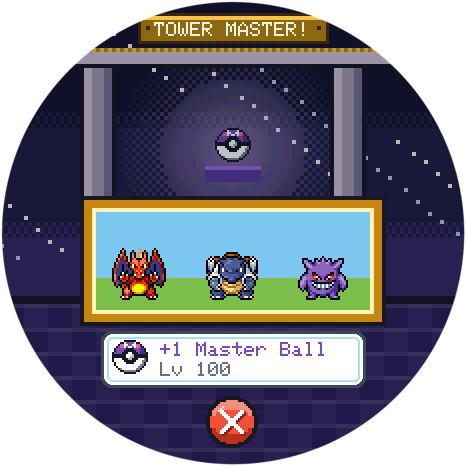
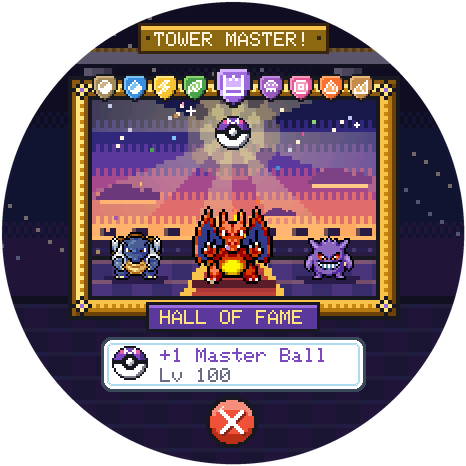
Docs: the Tower's screenshots show the new Hall of Fame painting
Fedor: "Looks like the tower sections didnt get the new hall of fame photo screenshots.
Lets fix that." Shot again from the game (the same team: Charizard with Blastoise and
Gengar), with its confetti, twinkles and the glint on the frame:
- tower-master.png: the README's Tower table and HOW_IT_WORKS
- tower-climb.gif: its Hall of Fame still (2 s) is now 22 frames of the painting
- tower-legend.gif (the 2.1.0 release notes' GIF too): the last 1.48 s after Mewtwo
The GIFs' other frames are unchanged, pixel for pixel, and each keeps its length.
The README's and HOW_IT_WORKS' descriptions say painting, not photo.

diff --git a/README.md b/README.md
@@ -100,7 +100,7 @@ Walk out along Travel's new pier to **Knomi Tower**: eight floors, each guarded 
 | **Out along the pier** | **Eight floors and the Legend** | **Your Pokémon and two friends** |
 | ![Who goes first? 1F's Rock guardian Aerodactyl, with Blastoise and Gengar marked Strong](docs/images/v2/tower-lead.png) | ![A floor fight in the tower's hall: Blastoise against Aerodactyl](docs/images/v2/tower-fight.png) | ![The Legend's second fight: Blastoise against Mewtwo](docs/images/v2/tower-mewtwo.png) |
 | **Who goes first?** | **A guardian on every floor** | **Mewtwo waits at the top** |
-| ![Climb over: CHARIZARD was Weak against KINGLER. Try a GRASS/ELECTRIC friend! Next climb +5% HP](docs/images/v2/tower-tip.png) | ![The tower with the friends' cheer: +5% HP for the next climb](docs/images/v2/tower-cheer.png) | ![TOWER MASTER! The Hall of Fame photo and +1 Master Ball](docs/images/v2/tower-master.png) |
+| ![Climb over: CHARIZARD was Weak against KINGLER. Try a GRASS/ELECTRIC friend! Next climb +5% HP](docs/images/v2/tower-tip.png) | ![The tower with the friends' cheer: +5% HP for the next climb](docs/images/v2/tower-cheer.png) | ![TOWER MASTER! The Hall of Fame painting: the team on the tower's top at sunset under the Master Ball, confetti falling, and +1 Master Ball](docs/images/v2/tower-master.png) |
 | **A tip after every lost climb** | **Friends cheer you on** | **Tower Master and the Hall of Fame** |
 
 How it all works, floor by floor: [Knomi Tower](docs/HOW_IT_WORKS.md#knomi-tower).

diff --git a/docs/HOW_IT_WORKS.md b/docs/HOW_IT_WORKS.md
@@ -154,7 +154,7 @@ Every zone's Pokémon are **common**, **rare** or **legendary**:
 
 A climb of ten fights in a row: eight floors, each with one guardian, then the Legend's two at the top. Your Pokémon and two friends go up together, and their HP carries from fight to fight, so who you send in matters as much as how strong they are.
 
-<p align="center"><img src="images/v2/tower.png" width="240" alt="Knomi Tower: eight floors, each lit in its type's colour with its name beside it, the Master Ball at the top and CLIMB! at its foot"> <img src="images/v2/tower-lead.png" width="240" alt="Who goes first? 1F's Rock guardian, Aerodactyl, with Blastoise and Gengar marked Strong"> <img src="images/v2/tower-master.png" width="240" alt="TOWER MASTER! The Hall of Fame photo of Charizard, Blastoise and Gengar, and +1 Master Ball"></p>
+<p align="center"><img src="images/v2/tower.png" width="240" alt="Knomi Tower: eight floors, each lit in its type's colour with its name beside it, the Master Ball at the top and CLIMB! at its foot"> <img src="images/v2/tower-lead.png" width="240" alt="Who goes first? 1F's Rock guardian, Aerodactyl, with Blastoise and Gengar marked Strong"> <img src="images/v2/tower-master.png" width="240" alt="TOWER MASTER! The Hall of Fame painting: Charizard, Blastoise and Gengar on the tower's top at sunset under the Master Ball, in a gold frame set with the floors' crests, and +1 Master Ball"></p>
 
 ### Getting there
 
